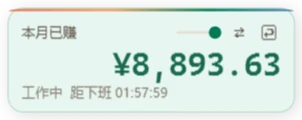
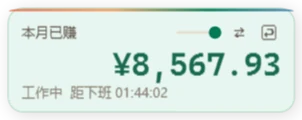
fix(ui): 官网演示截图公积金基数改为 20000
与按工资基数缴纳的五险一金保持一致；税后回到 15,764 / 日薪 875.78 / 秒薪 0.0304，重新生成 app-shot 与 mini-shot。

Changed region(s): [[0.5364, 0.425, 0.745, 0.65], [0.8046, 0.425, 0.894, 0.65], [0.447, 0.725, 0.5662, 0.825]]

diff --git a/docs/ui-refresh/decision.md b/docs/ui-refresh/decision.md
@@ -239,7 +239,7 @@
 
 - 主窗与迷你窗切到 Warm v2 后，同步替换官网 `server/assets/app-shot.png/webp` 与 `mini-shot.png/webp`。
 - 新增开发用 `shot-main` / `shot-mini` 启动模式：用 WPF `RenderTargetBitmap` 以 1.25x 渲染客户区（不含 Windows 标题栏），输出 PNG；主窗 1455×1051，迷你窗 302×120。官网 HTML 的 `width` / `height` 同步更新。
-- 新增 `SALARYTICKER_DATA_DIR` 环境变量覆盖数据目录；截图时指向独立的 demo 配置（税前 20000、五险一金按工资基数、公积金基数 5600 / 5%、专项扣除 0、历史月收入留空），避免读取或写回真实用户工资数据。
+- 新增 `SALARYTICKER_DATA_DIR` 环境变量覆盖数据目录；截图时指向独立的 demo 配置（税前 20000、五险一金按工资基数、公积金基数 20000 / 5%、专项扣除 0、历史月收入留空），税后 15,764 / 日薪 875.78 / 秒薪 0.0304，避免读取或写回真实用户工资数据。
 - 官网首屏已用新截图验证：`site-warm-shots.png`；图片无 404，设备框与迷你浮层布局正常。
 - `dotnet build` 通过、`dotnet test` 231 全绿、`dotnet run -- smoke` 全部 OK；未部署。
 
